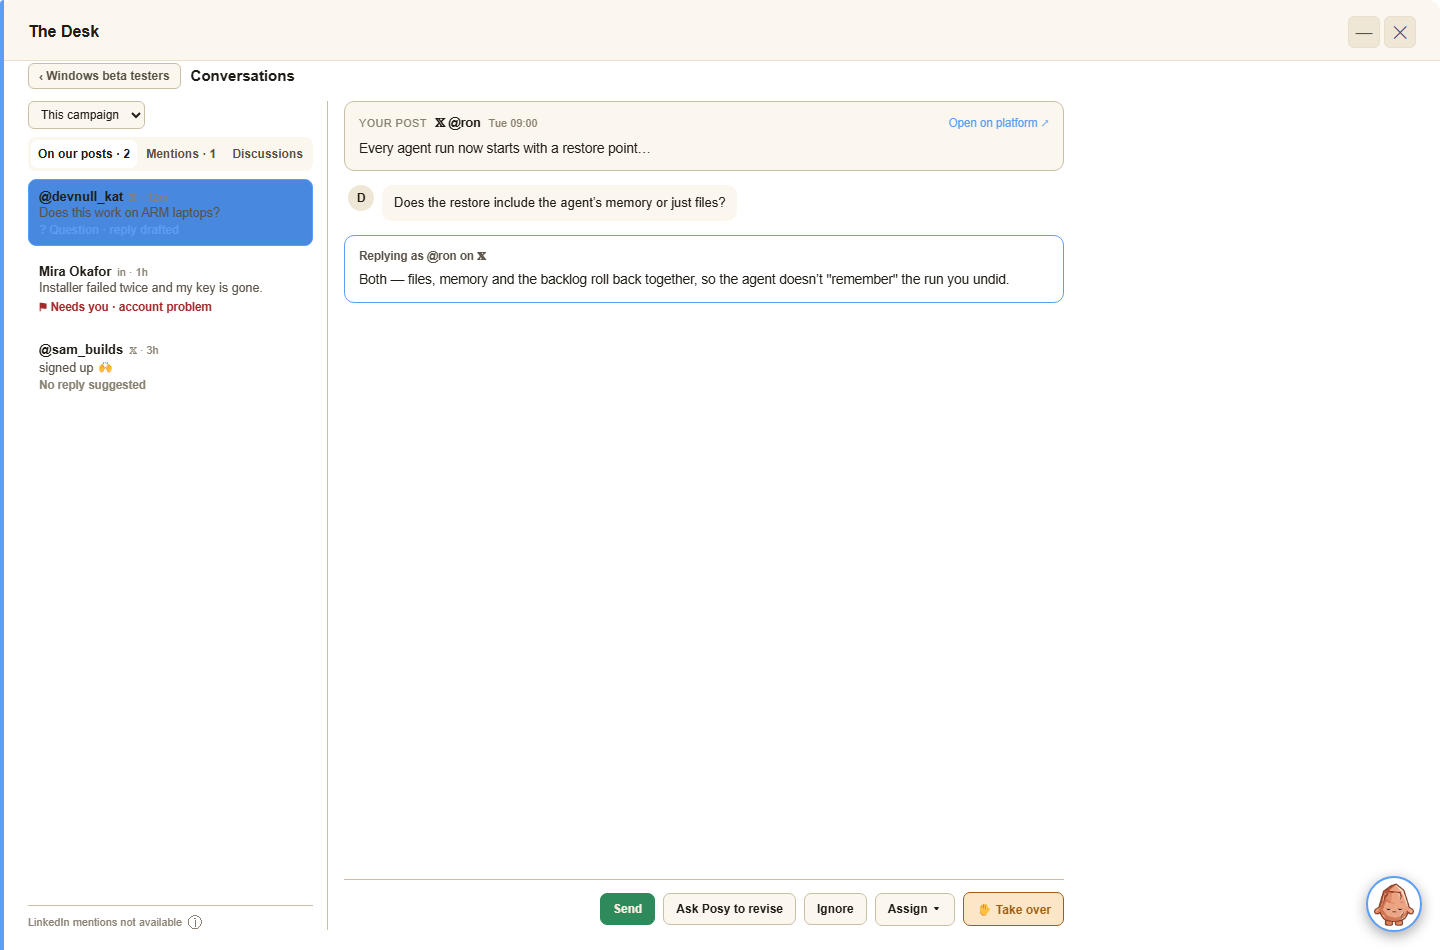
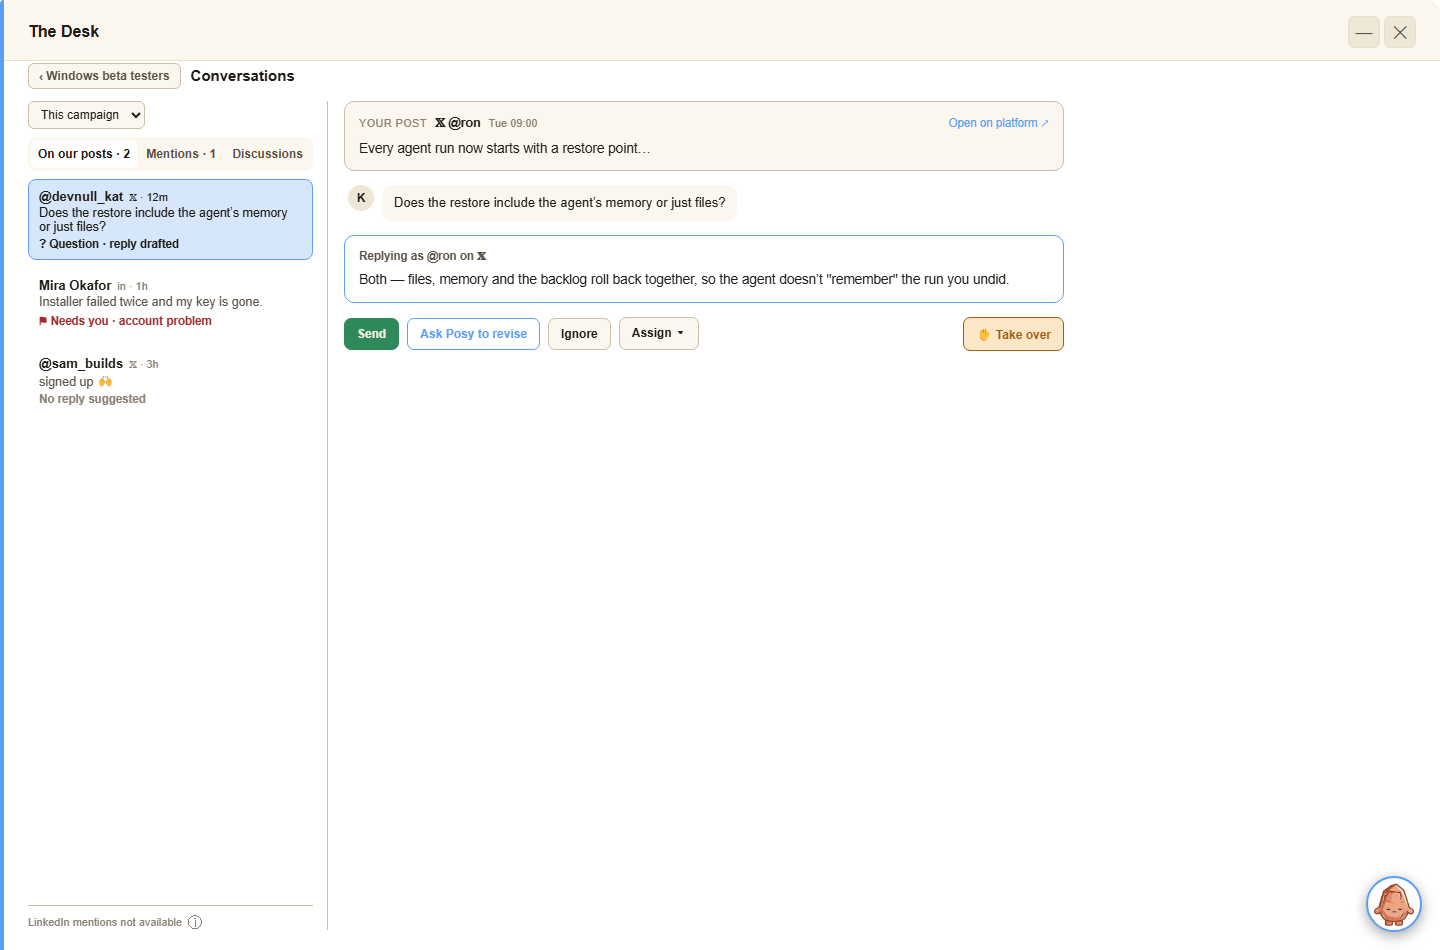
Desk v1 T6: fix Dave's review pass (row/thread mismatch, contrast, layout)
Dave's review against frame 12c found five issues in T6 Conversations:

1. conv-1's row excerpt ("Does this work on ARM laptops?") didn't match
   its own thread's first comment ("Does the restore include...") - a
   leftover T0a placeholder that predated T6's thread content. Fixed the
   fixture and added a smoke check (runRowMatchesThread) that asserts
   every fixture conversation's row excerpt equals its thread's first
   comment text, so this class of drift fails loudly next time.
2. Selected row used a solid --accent-soft fill, making the meta line and
   reason line unreadable (blue-on-blue). Switched to --accent-dim (a
   subtle tint, already used the same way for calendar's "today" column
   and drop-target highlights) with explicit var(--text) on the row's
   sub-elements and a thin --accent border, matching frame 12c.
3. The action row was pinned to the pane's bottom via margin-top: auto,
   landing ~580px below the reply card instead of directly under it.
   Removed the margin-top: auto/border-top/padding-top so it flows in
   normal document order. Frame 12c also right-aligns Take over
   separately from the left-grouped Send/Revise/Ignore/Assign, so
   justify-content flipped to flex-start with margin-left: auto on the
   takeover button alone.
4. "Ask Posy to revise" had no visual treatment in the frame's accent
   tint; added .desk-v1-conv-revise (accent border/text on a plain
   surface). Comment avatar now derives its initial from the commenter's
[…]

diff --git a/static/css/desk-v1.css b/static/css/desk-v1.css
@@ -1007,7 +1007,11 @@
   border-radius: 8px; padding: 9px 10px; cursor: pointer; font-family: inherit;
 }
 .desk-v1-conv-row:hover { background: var(--surface2); }
-.desk-v1-conv-row.is-selected { background: var(--accent-soft); border-color: var(--accent); }
+.desk-v1-conv-row.is-selected { background: var(--accent-dim); border-color: var(--accent); }
+.desk-v1-conv-row.is-selected .desk-v1-conv-author,
+.desk-v1-conv-row.is-selected .desk-v1-conv-age,
+.desk-v1-conv-row.is-selected .desk-v1-conv-snippet,
+.desk-v1-conv-row.is-selected .desk-v1-conv-reason { color: var(--text); }
 .desk-v1-conv-row-camp { font-size: 10.5px; color: var(--text-faint); text-transform: uppercase; letter-spacing: .03em; }
 .desk-v1-conv-row-head { display: flex; align-items: baseline; gap: 6px; }
 .desk-v1-conv-author { font-size: 13px; font-weight: 700; color: var(--text); }
@@ -1075,8 +1079,7 @@
 }
 
 .desk-v1-conv-actions {
-  display: flex; align-items: center; gap: 8px; justify-content: flex-end; flex-wrap: wrap;
-  border-top: 1px solid var(--border2); padding-top: 12px; margin-top: auto;
+  display: flex; align-items: center; gap: 8px; justify-content: flex-start; flex-wrap: wrap;
 }
 .desk-v1-conv-actions button {
   background: var(--surface2); border: 1px solid var(--border2); border-radius: 7px; color: var(--text);
@@ -1085,7 +1088,9 @@
 .desk-v1-conv-actions button:disabled { color: var(--text-faint); cursor: not-allowed; opacity: .6; }
 .desk-v1-conv-actions button.desk-v1-conv-send { background: var(--green); border-color: var(--green); color: var(--bg); }
 .desk-v1-conv-actions button.desk-v1-conv-send:disabled { background: var(--green-dim); border-color: var(--green-dim); color: var(--text-faint); }
-.desk-v1-conv-actions button.desk-v1-conv-takeover { background: var(--amber-dim); border-color: var(--amber-text); color: var(--amber-text); }
+.desk-v1-conv-actions button.desk-v1-conv-revise { background: var(--surface); border-color: var(--accent); color: var(--accent); }
+.desk-v1-conv-actions button.desk-v1-conv-revise:disabled { border-color: var(--border2); color: var(--text-faint); }
+.desk-v1-conv-actions button.desk-v1-conv-takeover { background: var(--amber-dim); border-color: var(--amber-text); color: var(--amber-text); margin-left: auto; }
 
 /* Phone (ground rule 7, §11: no view drawn specifically for Conversations —
    applies the same "list, then a full-screen destination with a bottom

diff --git a/static/js/desk-v1-fixtures.js b/static/js/desk-v1-fixtures.js
@@ -91,8 +91,13 @@
   // 3 conversations across the source switch (CON-01): our posts, mentions,
   // discussions — one of each, one deliberately stale (U14 hold).
   const CONVERSATIONS = [
+    // excerpt is T6's own fix (Dave's review pass): must equal the comment
+    // its own thread shows below (CONVERSATION_DETAIL['conv-1'].thread.
+    // comments[0].text) — a row can't promise one question and open on
+    // another. T0a's placeholder text ('Does this work on ARM laptops?')
+    // predates T6's thread content and never matched it.
     { id: 'conv-1', campaignId: 'camp-1', source: 'our_posts', channelId: 'ch-x-ron',
-      excerpt: 'Does this work on ARM laptops?', state: 'needs_reply' },
+      excerpt: 'Does the restore include the agent’s memory or just files?', state: 'needs_reply' },
     { id: 'conv-2', campaignId: 'camp-1', source: 'mentions', channelId: 'ch-li-page',
       excerpt: 'Someone linked the restore-points post in a thread about backups.', state: 'reviewed' },
     { id: 'conv-3', campaignId: 'camp-1', source: 'discussions', channelId: null,
@@ -351,8 +356,12 @@
       thread: {
         parentPost: { label: 'Your post', platform: 'x', identity: '@ron', ageLabel: 'Tue 09:00',
           text: 'Every agent run now starts with a restore point…', link: '#' },
+        // comment author is the person's display name ('Kat'), not the row's
+        // account handle ('@devnull_kat') — the comment avatar (rendering
+        // code already derives its initial from THIS field, unchanged) is
+        // frame 12c's 'K', not the row's 'D' (Dave's review pass).
         comments: [
-          { author: '@devnull_kat', platform: 'x', ageLabel: '12m',
+          { author: 'Kat', platform: 'x', ageLabel: '12m',
             text: 'Does the restore include the agent’s memory or just files?' },
         ],
         reply: { identity: '@ron', platform: 'x',

diff --git a/static/js/desk-v1-conversations.js b/static/js/desk-v1-conversations.js
@@ -220,7 +220,7 @@
         ${replyHTML}
         <div class="desk-v1-conv-actions">
           <button type="button" class="desk-v1-conv-send" data-conv-send ${canSend ? '' : `disabled title="${esc(sendReason)}"`}>Send</button>
-          <button type="button" data-conv-revise ${(reply && !takenOver) ? '' : 'disabled'}>Ask Posy to revise</button>
+          <button type="button" class="desk-v1-conv-revise" data-conv-revise ${(reply && !takenOver) ? '' : 'disabled'}>Ask Posy to revise</button>
           <button type="button" data-conv-ignore ${takenOver ? 'disabled' : ''}>Ignore</button>
           <button type="button" data-conv-assign ${takenOver ? 'disabled' : ''}>Assign ▾</button>
           <button type="button" class="desk-v1-conv-takeover" data-conv-takeover>${takenOver ? '✅ Resume' : '✋ Take over'}</button>
